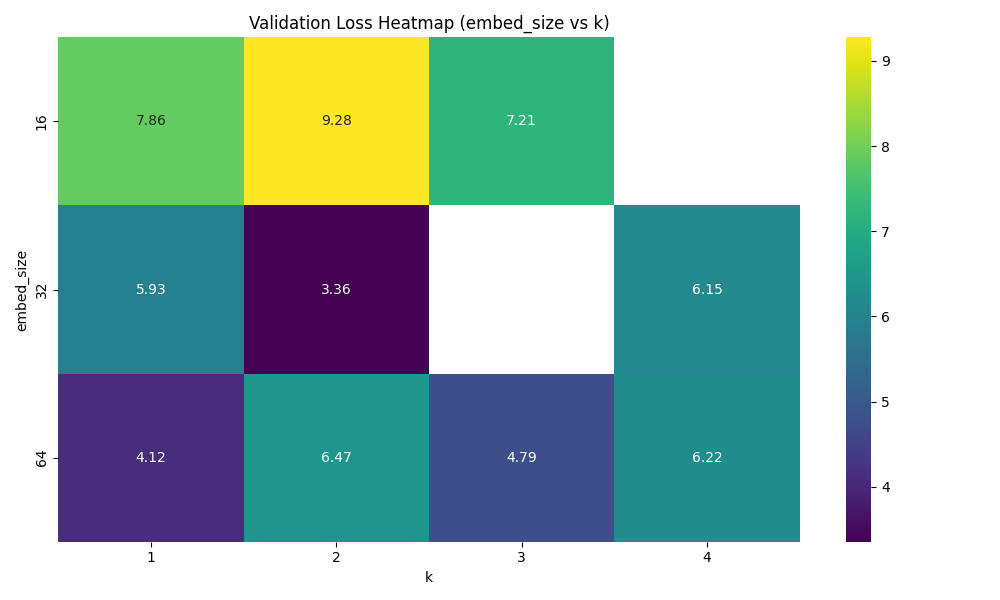
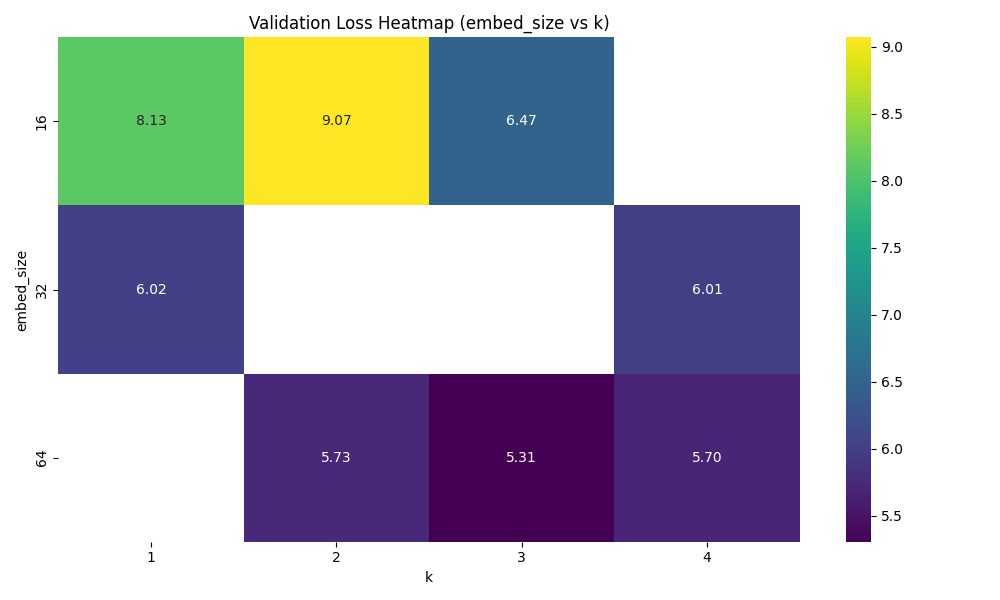
minor fix to shuffle random to pick smaller set

diff --git a/auto_train_then_analyze.py b/auto_train_then_analyze.py
@@ -1,0 +1,56 @@
+import subprocess
+import argparse
+import datetime
+import os
+
+def run_batch_train(log_path=None):
+    cmd = ["python", "batch_train.py"]
+    print("🚀 Starting batch training...")
+
+    with open(log_path, "w") if log_path else subprocess.DEVNULL as logfile:
+        subprocess.run(cmd, stdout=logfile, stderr=subprocess.STDOUT, check=True)
+    print("✅ Batch training completed.")
+
+def run_batch_analysis(fast=True, skip_existing=True, skip_plots=False, workers=8, log_path=None):
+    cmd = [
+        "python", "analyze_all_checkpoints.py",
+        "--workers", str(workers)
+    ]
+    if fast:
+        cmd.append("--fast")
+    if skip_existing:
+        cmd.append("--skip_existing")
+    if skip_plots:
+        cmd.append("--skip_plots")
+
+    print("\n🔬 Starting batch analysis...")
+    with open(log_path, "w") if log_path else subprocess.DEVNULL as logfile:
+        subprocess.run(cmd, stdout=logfile, stderr=subprocess.STDOUT, check=True)
+    print("✅ Batch analysis completed.")
+
+def main():
+    parser = argparse.ArgumentParser()
+    parser.add_argument("--train_log", default=None, help="Optional path to save batch training logs")
+    parser.add_argument("--analyze_log", default=None, help="Optional path to save analysis logs")
+    parser.add_argument("--fast", action="store_true", help="Fast analysis (no gen or plot)")
+    parser.add_argument("--skip_existing", action="store_true", help="Skip already analyzed configs")
+    parser.add_argument("--skip_plots", action="store_true", help="Skip plotting")
+    parser.add_argument("--workers", type=int, default=8, help="Number of parallel threads for analysis")
+    args = parser.parse_args()
+
+    timestamp = datetime.datetime.now().strftime("%Y%m%d_%H%M%S")
+    train_log = args.train_log or f"logs/batch_train_{timestamp}.log"
+    analyze_log = args.analyze_log or f"logs/batch_analysis_{timestamp}.log"
+    os.makedirs("logs", exist_ok=True)
+
+    run_batch_train(train_log)
+    run_batch_analysis(
+        fast=args.fast,
+        skip_existing=args.skip_existing,
+        skip_plots=args.skip_plots,
+        workers=args.workers,
+        log_path=analyze_log
+    )
+
+if __name__ == "__main__":
+    main()

diff --git a/batch_train.py b/batch_train.py
@@ -32,28 +32,6 @@ param_grid = {
     "--kgram_chunk_size": ["1", "2", "3"]  # required for model_config
 }
 
-
-easy_param_grid = {
-    "--learning_rate": ["0.001"],
-    "--activation": ["gelu"],
-    "--batch_size": ["32"],
-    "--embed_size": ["32"],
-    "--num_inner_mlp_layers": ["10"],
-    "--kgram_k": ["2"],
-    "--block_size": ["64"],
-    "--num_epochs": ["5"],
-    "--tinystories_weight": ["0.8"],
-    "--val_split": ["0.2"],
-
-    # Fixed arguments
-    "--train_subset_size": ["1000"],
-    "--max_steps_per_epoch": ["30"],
-    "--log_interval_steps": ["10"],
-    "--sample_interval_seconds": ["30"],
-    "--device_id": ["cuda:0"],
-    "--prompt": ["Once upon a"],
-    "--kgram_chunk_size": ["1"]
-}
 # Create the logs directory if it doesn't exist
 os.makedirs("logs", exist_ok=True)
 
@@ -64,6 +42,7 @@ combinations = list(itertools.product(*values))
 # Shuffle the seed so that quick testing has variey of data
 # good mix of hyperparms can produce 7000+ permutations
 random.shuffle(combinations)
+combinations = combinations[:15]  # Limit to 100 combinations for quick testing
 print(f"Total experiments to run: {len(combinations)}")
 
 def strip_timestamp(model_config_str):
@@ -76,7 +55,7 @@ def infer_model_name(args):
         return "lstm_seq"
     elif hasattr(args, "n_heads") and hasattr(args, "n_layers"):
         return "transformer"
-    return "unknown_model"
+    return "batch"  # Default to batch if no specific model type is found
 
 def get_analyzed_configs_from_analysis_runs():
     analyzed = set()
@@ -117,7 +96,8 @@ for i, combo in enumerate(combinations, 1):
             cmd.extend([key, val])
 
         args_namespace = argparse.Namespace(**{k.lstrip("--"): v for k, v in args_dict.items()})
-        model_name = infer_model_name(args_namespace)
+        # model_name = infer_model_name(args_namespace)
+        model_name = "batch"
         model_config_str = get_model_config(model_name, args_namespace)
         core_config = strip_timestamp(model_config_str)
         safe_log_name = safe_filename(model_config_str)

diff --git a/analyze_all_checkpoints.py b/analyze_all_checkpoints.py
@@ -71,7 +71,7 @@ def main():
     parser.add_argument("--checkpoint_root", default="checkpoints", help="Top-level directory to search")
     parser.add_argument("--analysis_dir", default="analysis_runs", help="Where to copy analysis results")
     parser.add_argument("--prompt", default="Once upon a", help="Prompt for text generation")
-    parser.add_argument("--skip_existing", action="store_true", help="Skip checkpoints already analyzed")
+    parser.add_argument("--skip_existing", default=True, action="store_true", help="Skip checkpoints already analyzed")
     args = parser.parse_args()
 
     checkpoint_root = args.checkpoint_root

diff --git a/analyze_checkpoints.py b/analyze_checkpoints.py
@@ -170,6 +170,8 @@ def plotlosses(loss_log_path, args):
 
         plot_path = os.path.join(args.checkpoint_dir_sub, "metrics_curve.png")
         plt.savefig(plot_path)
+        plt.close(fig)  # Close the figure to free memory
+        
         # Target path for the plot
         print(f"Saved training metrics plot to {plot_path}")
 
